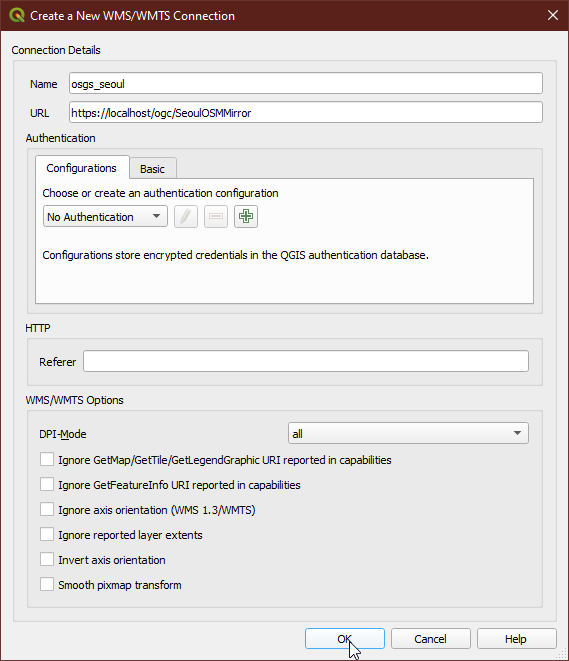
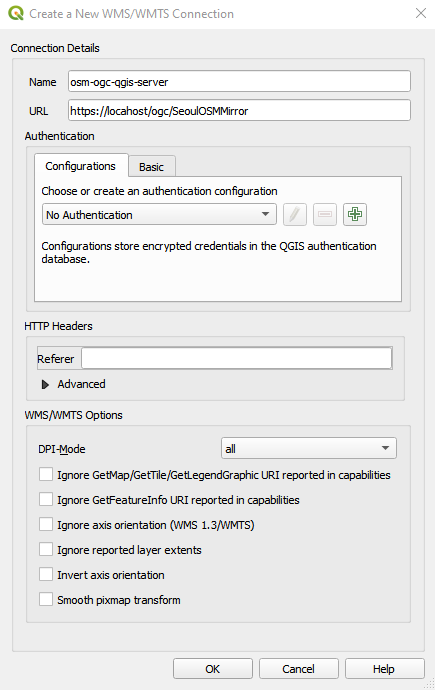
update  Uploading a QGIS project workflow

Changed region(s): [[0.0, 0.0, 1.0, 1.0], [0.0299, 0.4236, 0.9264, 0.9077]]

diff --git a/sphinx/source/workflows/uploading-qgis-project.md b/sphinx/source/workflows/uploading-qgis-project.md
@@ -2,15 +2,18 @@
 
 This workflow demonstrates how to publish a QGIS project in a folder/directory.
 
-The GeoPackage  and QGIS project used in this workflow are located in the `qgis_projects/SeoulOSMMirror/` folder. The vector data used in this workflow was acquired from OpenStreetMap using the [Docker OSM mirror service](https://kartoza.github.io/osgs/workflows/create-osm-mirror-in-database.html). The layers were then exported from the Postgres service `gis` database into a GeoPackage using the ogr2ogr tool. The `clip.geojson` file used to get the OpenStreetMap data for Seoul, South Korea, was obtained from [southkorea/seoul-maps](https://github.com/southkorea/seoul-maps/blob/master/juso/2015/json/seoul_municipalities_geo_simple.json).
+The vector data used in this workflow was acquired from OpenStreetMap using the [Docker OSM mirror service](https://kartoza.github.io/osgs/services/docker-osm.html) using the [Creating an Open Street Map mirror into your database](https://kartoza.github.io/osgs/workflows/create-osm-mirror-in-database.html) workflow. The layers were then exported from the Postgres service `gis` database into a GeoPackage using the ogr2ogr tool. The `clip.geojson` file used to get the OpenStreetMap data for Seoul, South Korea, was obtained from the[southkorea/seoul-maps](https://github.com/southkorea/seoul-maps/blob/master/juso/2015/json/seoul_municipalities_geo_simple.json) repository.
 
-## Deploy the initial stack and QGIS Server
+## Deploy the initial stack and the QGIS Server service
 
 In your server terminal, deploy the initial stack by running either `make configure-ssl-self-signed` or `make configure-letsencrypt-ssl`. The initial stack consists of the Nginx, Hugo Watcher and Watchtower services.
 
 Use `make configure-ssl-self-signed` if you are going to use a self-signed certificate on a localhost for testing. Use `make configure-letsencrypt-ssl` if you are going to use a Let's Encrypt signed certificate on a name host for production. The `make configure-ssl-self-signed` will deploy the Nginx, Hugo Watcher and Watchtower services, but after running `make configure-letsencrypt-ssl` you will need to run `make deploy-hugo` to deploy the Nginx, Hugo Watcher and Watchtower services.
 
-To deploy the QGIS Server Service, run `make deploy-qgis-server`.
+To deploy the QGIS Server Service, run `make deploy-qgis-server`. Use `make ps` to see the services running. The following services should be up:
+
+![Running Services](../img/upload-qgis-project-6.png)
+
 
 ## Prepare the QGIS project
 
@@ -18,7 +21,11 @@ Place the QGIS project file and its associated vector and/or raster data in a na
 
 ## Deploy the File Browser service and upload the QGIS project
 
-To deploy the File Browser service run `make deploy-file-browser`. The file browser service can now be accessed on `/files/` e.g. https://localhost/files. The URL will direct you to the Login page. Sign in to the service using the File Browser username `admin` and password `<FILEBROWSER_PASSWORD>` specified in the `.env` file.
+To deploy the File Browser service run `make deploy-file-browser`. The following services should be up:
+
+![Running Services](../img/upload-qgis-project-7.png)
+
+The file browser service can now be accessed on `/files/` e.g. https://localhost/files. The URL will direct you to the Login page. Sign in to the service using the File Browser username `admin` and password `<FILEBROWSER_PASSWORD>` specified in the `.env` file.
 
 ![Log in Page](../img/file-browser-1.png)
 
@@ -28,16 +35,18 @@ Navigate into the `qgis_projects` folder, click on the upload button and upload 
 
 ![Upload QGIS Project](../img/upload-qgis-project-2.png)
 
-## Accessing the QGIS project on the OGC link
+Restart the QGIS Server service using `make restart-qgis-server`.
+
+## Using QGIS Desktop as a web service client for QGIS Server published layers
 
 We can now access the QGIS project on the OGC link. In your QGIS Desktop Browser panel, right click on the `WMS/WMTS` option and create a new connection.
 
 ![New WMS Connection](../img/upload-qgis-project-3.png)
 
-Give the new connection an appropriate name. For the URL parameter, access the published QGIS project via `/ogc/SeoulOSMMirror` i.e. `https://<server name>/ogc/<QGIS project name>/`.
+Give the new connection an appropriate name. For the URL parameter, access the published QGIS project via `/ogc/SeoulOSMMirror` i.e. `https://<server name>/ogc/<QGIS project name>`.
 
-![New WMS Connection](../img/upload-qgis-project-4.png)
+![New WMS Connection Details](../img/upload-qgis-project-4.png)
 
-Click "Ok". Once the connection is successful, drag and drop the `SeoulOSMMirror` layer onto the QGIS workspace.
+Click "Ok". Once the connection is successful, drag and drop the `SeoulOSMMirror` layer onto the QGIS Map View.
 
 ![Published QGIS Project](../img/upload-qgis-project-5.png)
